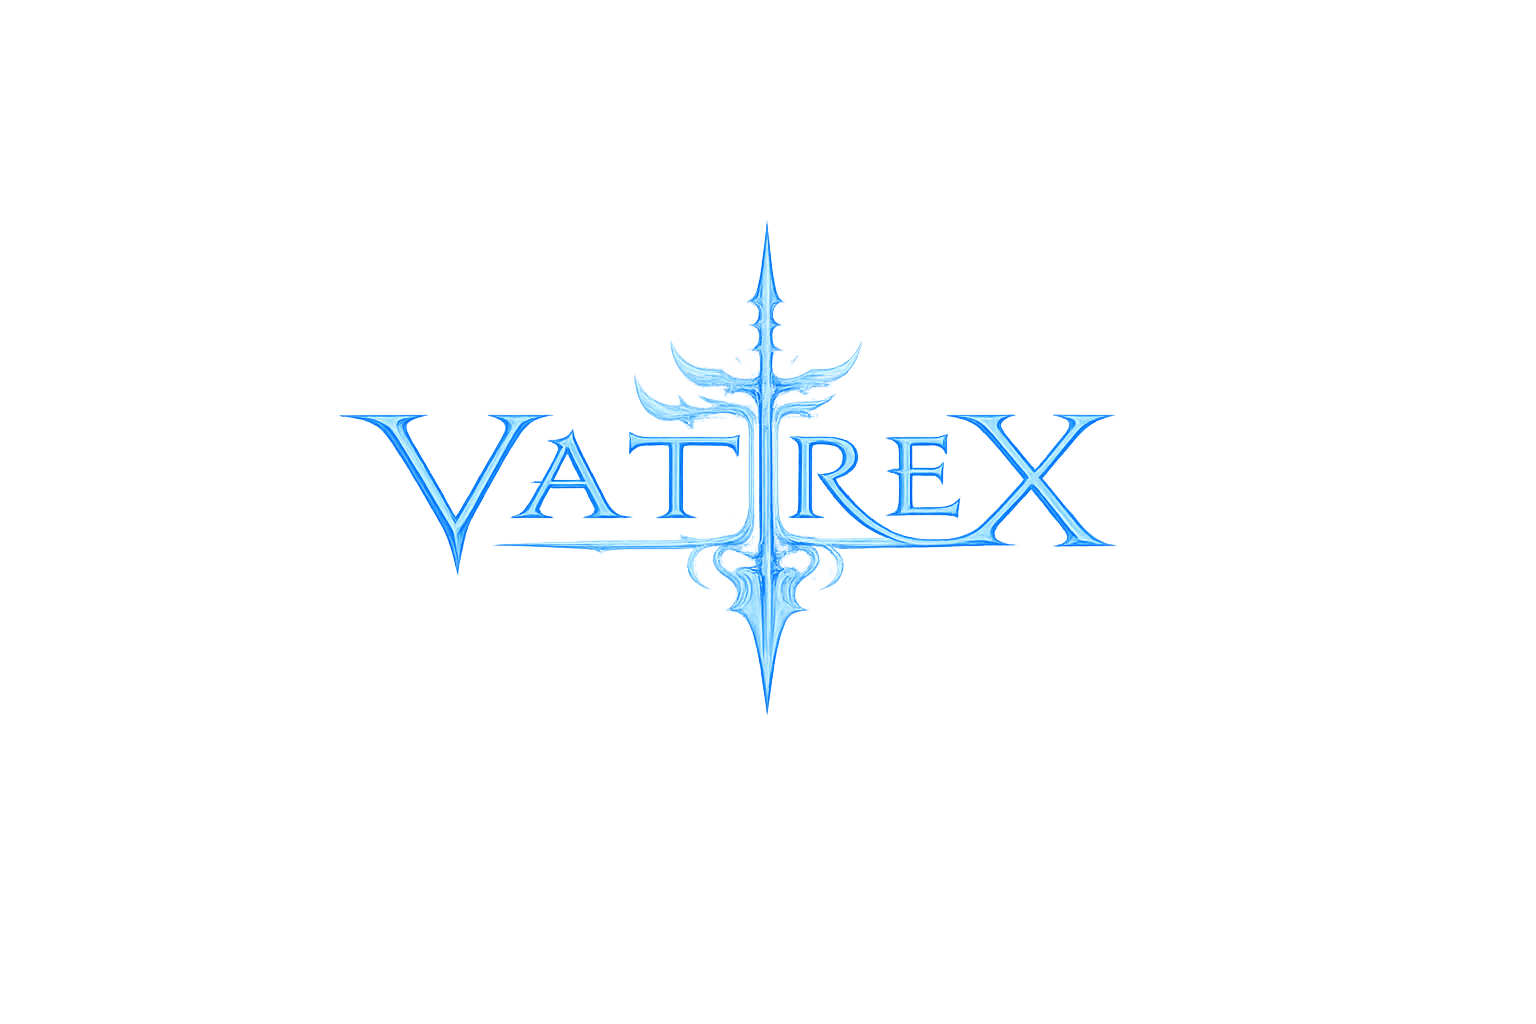
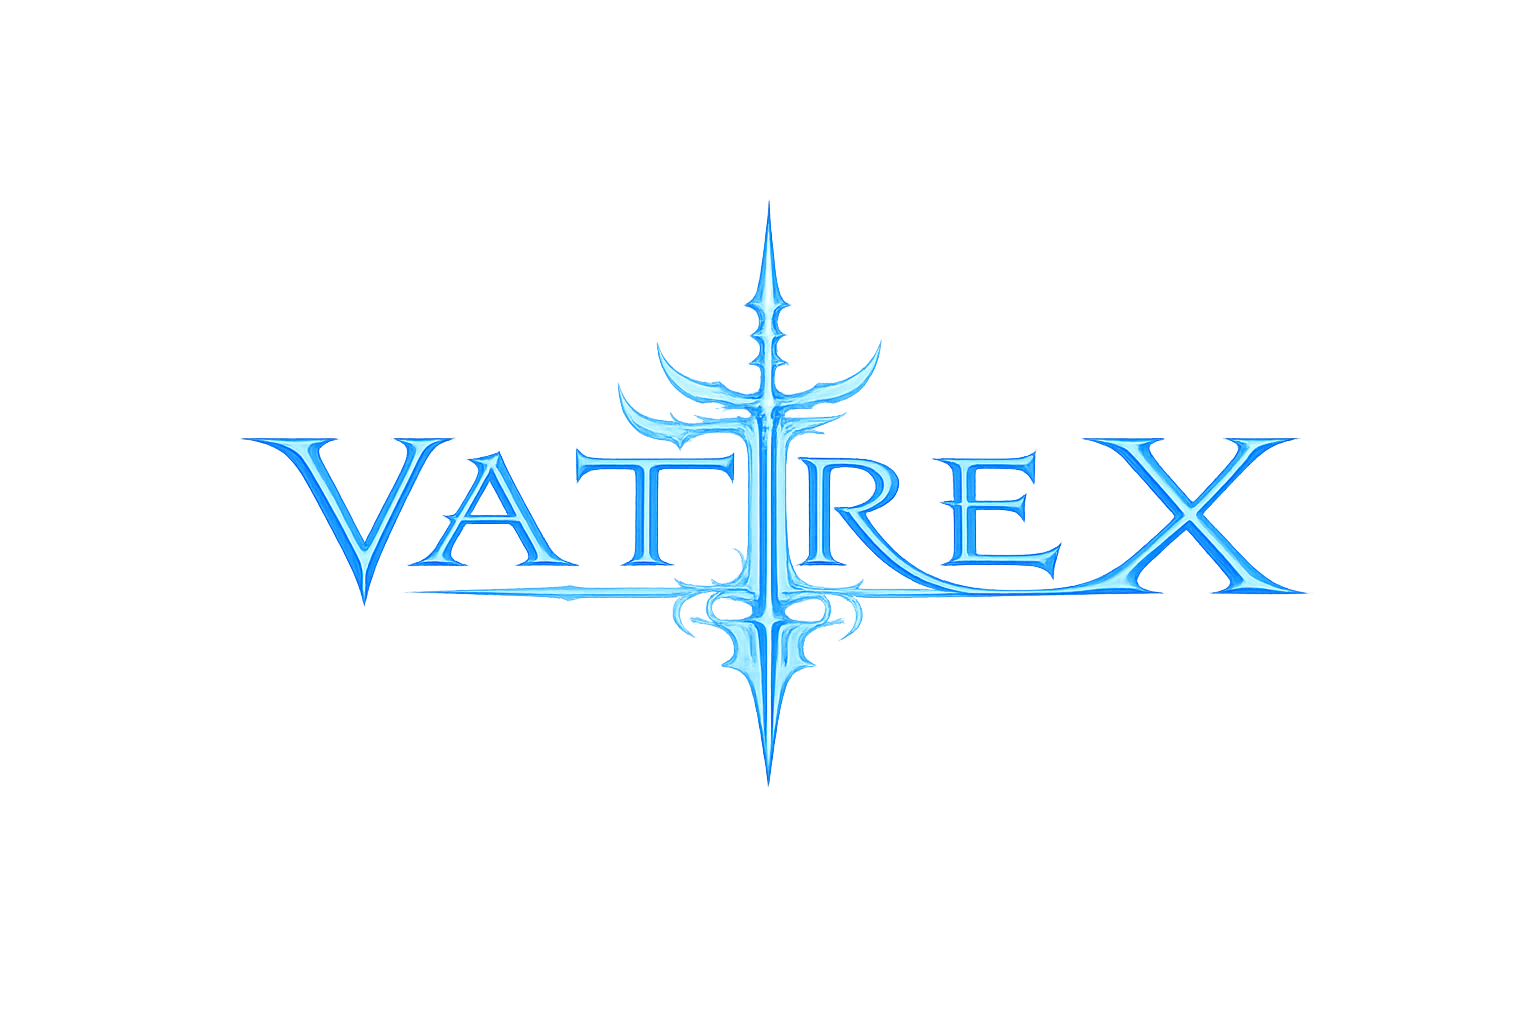
configured device size

Changed region(s): [[0.1562, 0.25, 0.8438, 0.75]]

diff --git a/css/style.css b/css/style.css
@@ -16,8 +16,8 @@
 
 .logo{
     width: 100%;
-    max-height:500px;
-    max-width: 1000px;   /* Change this to 200px, 300px, etc. */
+    max-height:510px;
+    max-width: 850px;   /* Change this to 200px, 300px, etc. */
     display: block;
 }
 body{
@@ -28,8 +28,8 @@ body{
       color:rgb(255, 255, 255);
       
     }
-    .vatrex.logo{
-      width: 100%;
+    .logo{
+      width: 97%;
       height: auto;
       display:block;
     }
@@ -42,7 +42,7 @@ body{
       color:#0cbdf8;
       
       height:2px;
-      font-size:60px;
+      font-size:30px;
       
       margin:auto;
       
@@ -68,8 +68,6 @@ body{
       text-align:center;
       
       height:50px;
-      
-      margin:auto;
       
       padding-top:13px;
       
@@ -202,8 +200,7 @@ body{
    @media (max-width: 768px) {
     .logo-container{
     width: 100%;
-    max-width:1000px;
-    height: 150px;
+        height:140px;
     align-items:center;
     display: flex;
     justify-content: center; /* Center the logo */
@@ -212,58 +209,51 @@ body{
 }
 
 .logo{
-    width: 100%;
-    max-width: 1000px; 
-    height: 50%;  /* Change this to 200px, 300px, etc. */
+    width: 500px;
+  /* Change this to 200px, 300px, etc. */
     display: block;
 }
-      .products {
-    display:grid;
-    grid-template-columns:repeat(2, 1fr);
-      }
+
        .products {
         
 
-        display: grid;
-
-        grid-template-columns: repeat(2, 1fr);
+        display: flex;
 
         gap:20px;          /* Space between images */
         
-        margin-top:-20px;
+        margin-top:-30px;
         
         height:auto;
          
-        overflow-x: hidden;   /* Enables horizontal scrolling */
-         
-        overflow-y:auto; /* Prevents scrolling in y axis */
+        overflow-x: auto;   /* Enables horizontal scrolling */
+          /* Prevents scrolling in y axis */
       
           white-space: nowrap; /* bte3ml wrap lel text elly w5da space*/
-          padding: 30px;
+         
        }
     .product1 img{
-     width:150px;
+     width:170px;
      height:auto;
+    margin-top:10px;
+
     }
   
     .product2 img{
-    width:150px; 
+    width:180px; 
     height:auto;
+     margin-top:6px;
+  
   }
   
   .product3 img{
      width:150px;
-      margin-top:30px;
     height:auto;
-}
+    margin-top:20px;
+    }
     
     .product4 img {
       width:150px;
       height:auto;
-    
-      margin-top: 30px;
-
-      object-fit: contain;
         }
 
             .bottoms{
@@ -289,11 +279,9 @@ body{
     }
 
   }
-      @media (min-width: 768px) and (max-width: 1023px) {
+      @media (min-width: 768px) and (max-width: 1024px) {
         .logo-container{
     width: 100%;
-        
-    height: 275px;
         
     align-items:center;
         
@@ -306,8 +294,9 @@ body{
     overflow-x:hidden
     }
         .logo{
-    width: 100%;
-    max-height:500px;  /* Change this to 200px, 300px, etc. */
+    
+    height:600px;
+            width:900px;/* Change this to 200px, 300px, etc. */
     display: block;
     }
           .products {
@@ -346,7 +335,7 @@ body{
        display:grid;
       grid-template-columns:repeat(2, 1fr);
       height:270px;
-      gap:3px;
+      gap:200px;
       white-space: nowrap;
       overflow-x: hidden;
 
@@ -415,4 +404,21 @@ html{
 .products img:active,
 .bottoms img:active{
     transform:scale(0.97);
+}
+.products img{
+    -webkit-tap-highlight-color: transparent;
+    outline: none;
+}
+a,
+button,
+img,
+.product1 img,
+.product2 img,
+.product3 img,
+.product4 img,
+.pants1 img,
+.pants2 img{
+    -webkit-tap-highlight-color: transparent;
+    outline: none;
+    user-select: none;
 }